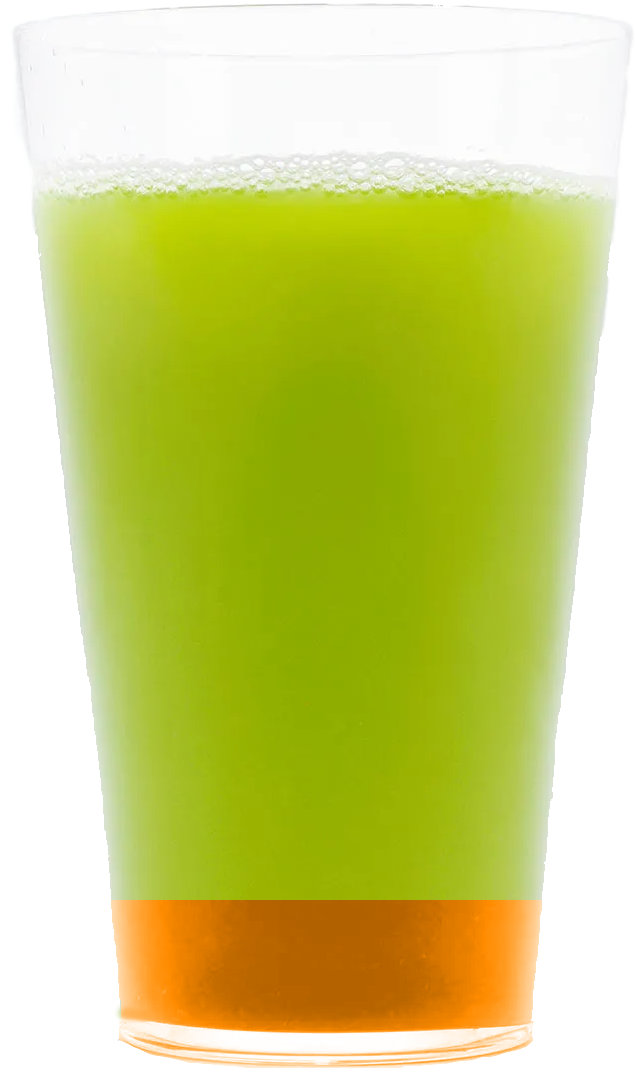
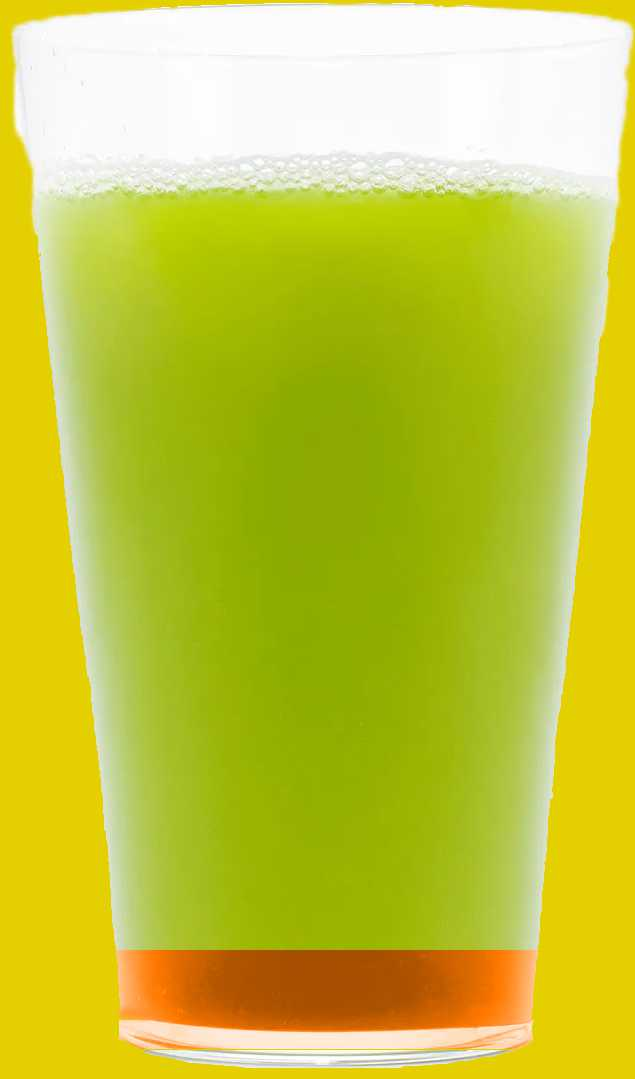
Halfway done with animation.

Changed region(s): [[0.0, 0.0, 1.0, 1.0], [0.6882, 0.1529, 0.7181, 0.1835]]

diff --git a/script.js b/script.js
@@ -20,7 +20,7 @@
         // Preloading images to drastically improve performance
         const currentFrame = index => (`Drink/Green${index.toString()}.jpg`);
         console.log(currentFrame)
-        const frameCount = 148; // There 148 images for that animation-sequence to load
+        const frameCount = 180; // There 148 images for that animation-sequence to load
         const images = [];
 
         const preloadImages = () => {
@@ -35,7 +35,7 @@
 
         // Draw the first image
         const img = new Image();
-        img.src = currentFrame(1);
+        img.src = currentFrame(0);
         img.onload = function(){
             context.drawImage(img, 0, 0);
         }
@@ -72,9 +72,9 @@
           const descriptions = [
             "Rejuvenate is a revitalizing blend of fresh and vibrant flavors, carefully crafted to invigorate your senses. This delightful juice concoction combines the zesty tang of oranges, the tropical sweetness of pineapples, the tangy zest of limes, and the subtle warmth of ginger. To add a hint of earthiness, we include the refreshing essence of carrots, balanced with the crispness of red apples. With each sip of Rejuvenate, you'll experience a harmonious fusion of flavors that will leave you feeling refreshed, energized, and ready to take on the day.",
             'A complete elixir, combining the vibrant essence of red cabbage, the invigorating kick of ginger, the rich sweetness of black grapes, the zesty tang of lime, the refreshing burst of oranges, and the crispness of red apple. This revitalizing blend is designed to awaken your senses and replenish your energy, offering a harmonious fusion of flavors that will leave you feeling refreshed and revitalized.',
-            'Green and Red Apple, Kale, Celery, Pineapple, Lemon, Ginger',
-            'Kiwi, Green Grapes, Organe, Spinach, Basil, Red Apple',
-            'Carrot, Pineapple, Red Apple, Red Grapes, Ginger, Red Beet, Lime',
+            'At the juice bar, the "Recover" drink is a revitalizing blend of Green and Red Apple, Kale, Celery, Pineapple, Lemon, and Ginger. This vibrant concoction combines the crisp sweetness of apples with the earthy essence of kale and the refreshing tang of pineapple. The addition of celery adds a subtle hint of freshness, while lemon provides a zesty kick. Finally, the invigorating touch of ginger adds a spicy note to complete this rejuvenating beverage. Sip on the "Recover" and feel your energy replenished as you indulge in the harmonious fusion of flavors and the nourishing benefits of these wholesome ingredients.',
+            'A revitalizing and nutrient-packed drink, this vibrant concoction combines the refreshing flavors and health benefits of kiwi, green grapes, orange, spinach, basil, and red apple. The tartness of kiwi and green grapes perfectly complements the citrusy sweetness of orange and red apple, creating a harmonious blend. The addition of spinach and basil adds a dose of green goodness, providing essential vitamins and minerals. This invigorating drink not only tantalizes your taste buds but also replenishes your body with essential nutrients, helping you refocus and recharge.',
+            'Crafted to invigorate your senses and boost your energy levels, this vibrant concoction combines the goodness of carrot, pineapple, red apple, red grapes, ginger, red beet, and lime. The carrot adds a touch of natural sweetness and a wealth of vitamins and antioxidants, while the pineapple and red apple contribute to the refreshing tropical flavor. The red grapes provide a burst of juicy goodness, and the ginger adds a subtle spicy kick. The red beet brings its earthy richness and vibrant color, while the lime adds a zesty twist. It brings you back to life!',
             'Lime, Red/Green Apple, Cucumber, Green Grapes',
             'Green Apple, Bosc Pear, Carrot, Lemon',
             'Cucumber, Green Apple, Ginger, Lemon',
@@ -105,7 +105,7 @@
             );
             // console.log('FrameIndex', frameIndex);
 
-            requestAnimationFrame(() => context.drawImage(images[frameIndex + 2], 0, 0));
+            requestAnimationFrame(() => context.drawImage(images[frameIndex - 18], 0, 0));
               console.log(frameIndex)
               console.log(scrollFraction)
               console.log(frameCount)
@@ -115,7 +115,7 @@
 
 
             if (((scrollFraction * 100) % 10) ==  0) {
-                currentSectionIndex = ((scrollFraction * 10) / 10)
+                currentSectionIndex = (((scrollFraction * 10) / 10) - 1)
             }
 
               if (sectionIndex !== currentSectionIndex) {
@@ -130,7 +130,7 @@
                   subtextElement.style.opacity = '1';
                   descriptionElement.style.opacity = '1';
                 
-                }, 400); // Change the duration (in milliseconds) to control the fade in time
+                }, 200); // Change the duration (in milliseconds) to control the fade in time
                 currentSectionIndex = sectionIndex;
               }
             }

diff --git a/style.css b/style.css
@@ -181,6 +181,7 @@ canvas {
 
 #scroll-container {
   height: 500vh; /* Set the desired height for the scroll container */
+  background-color: #E4D000;
 }
   
 #text-element,
